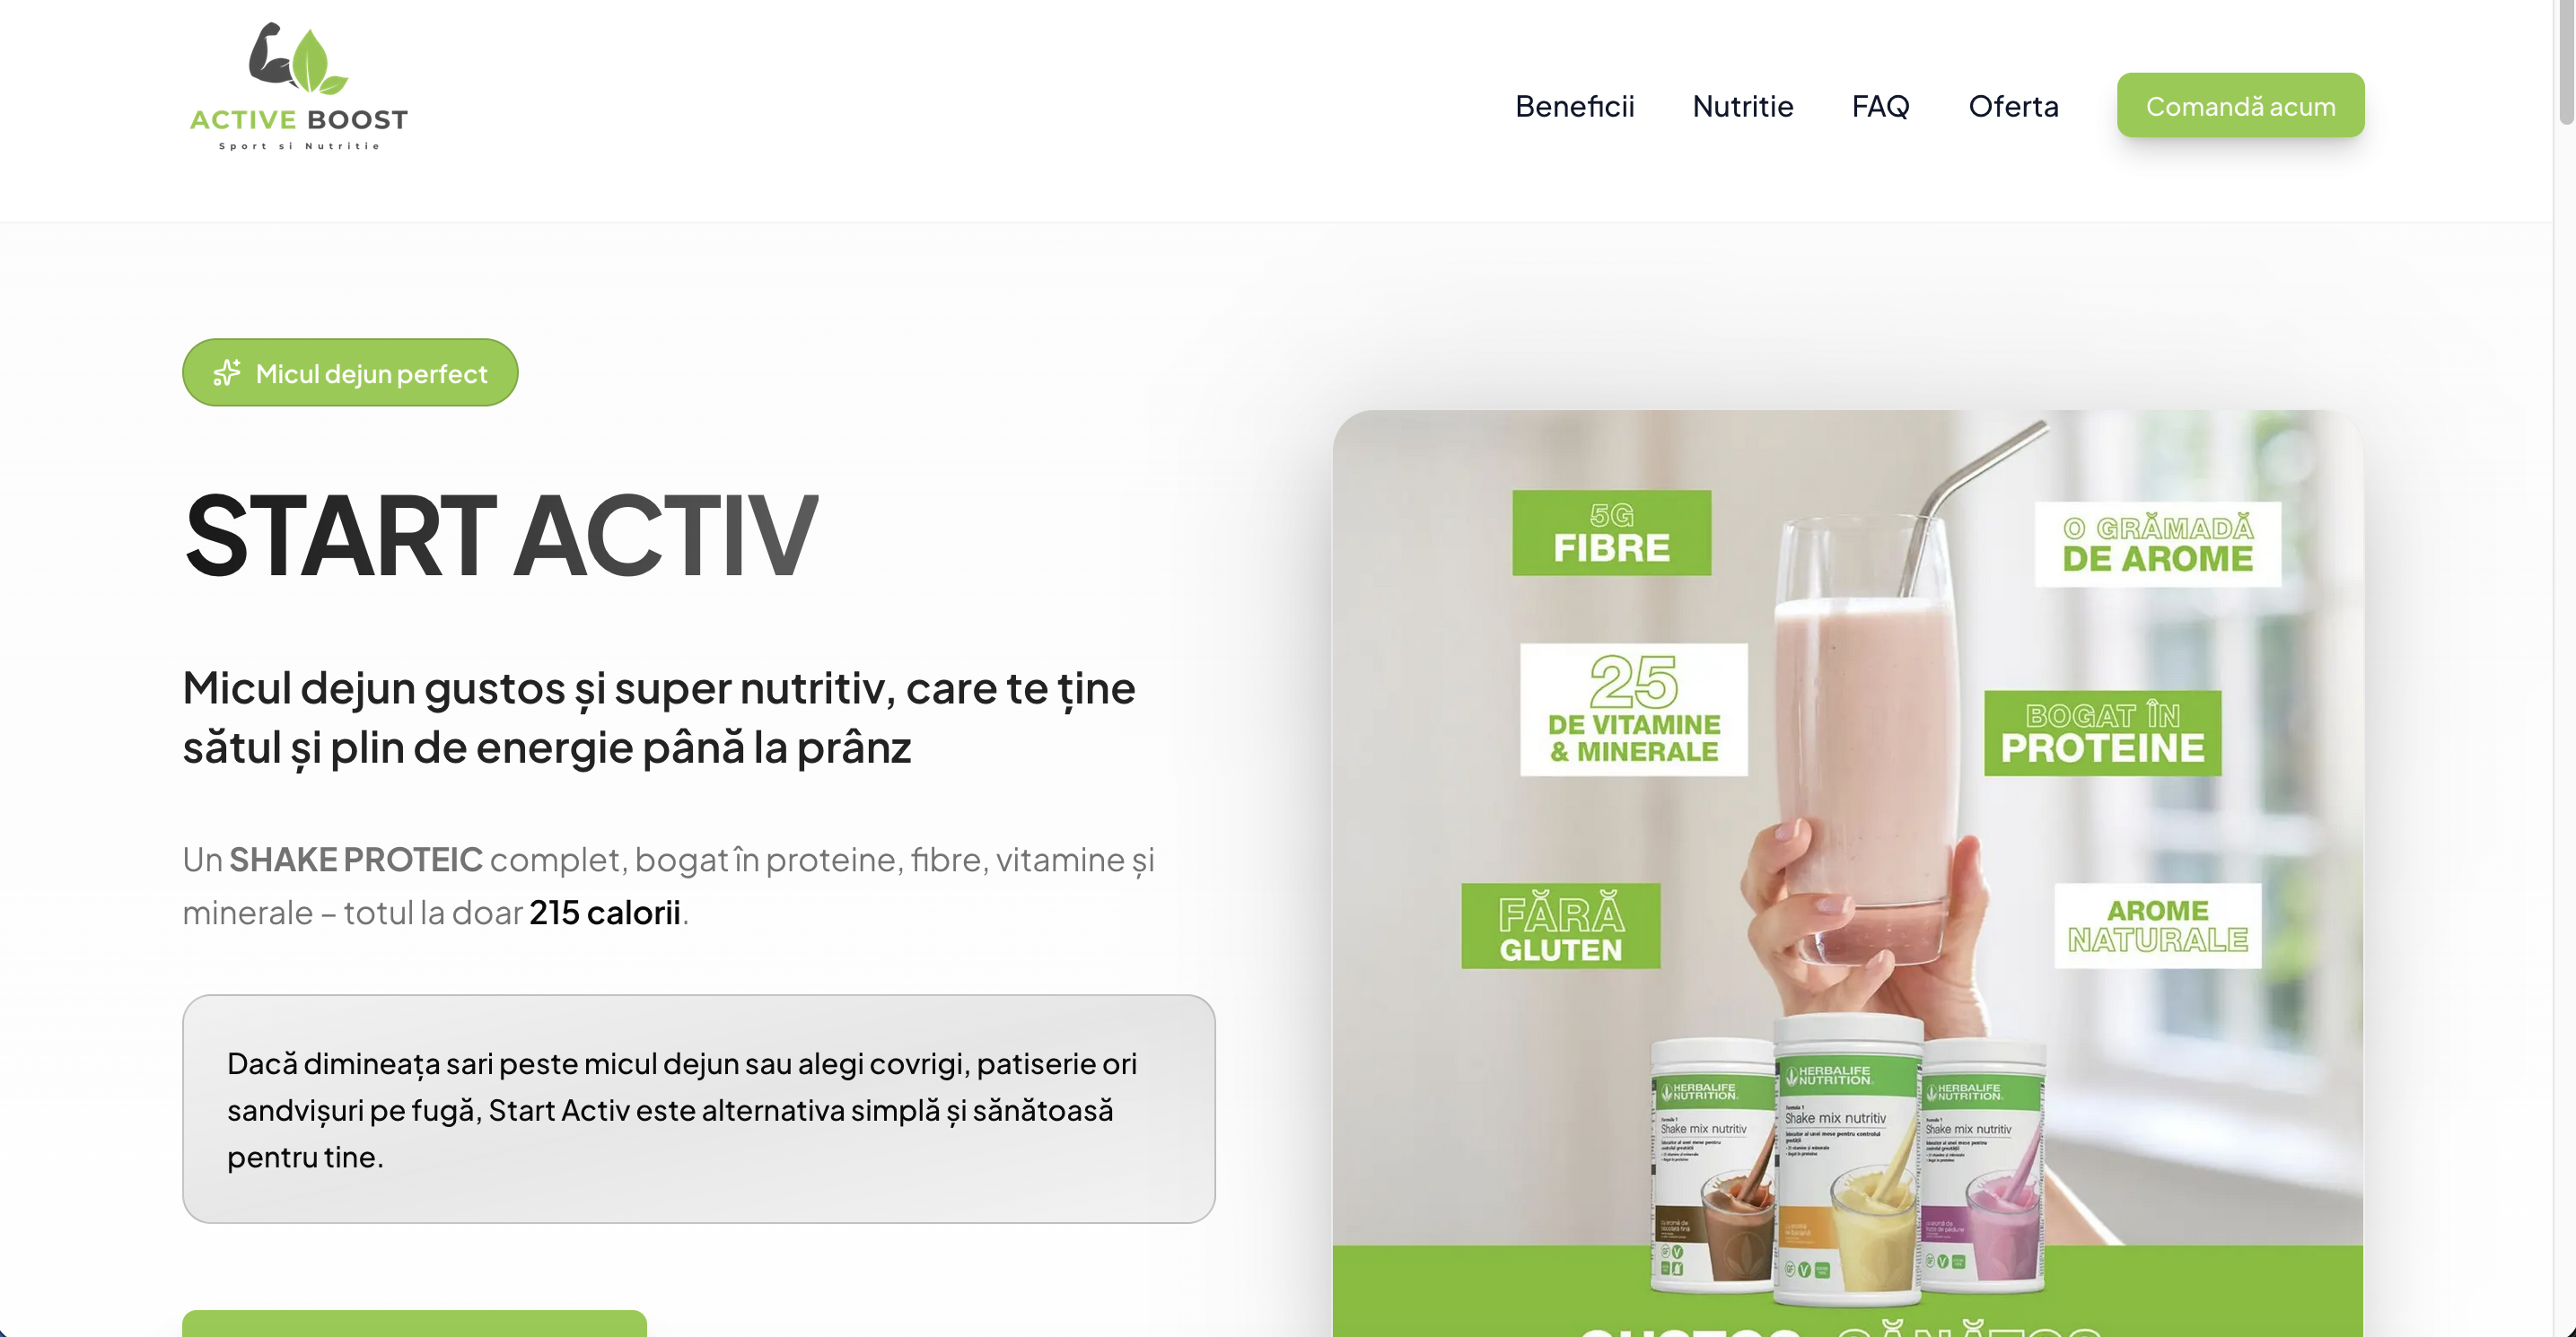
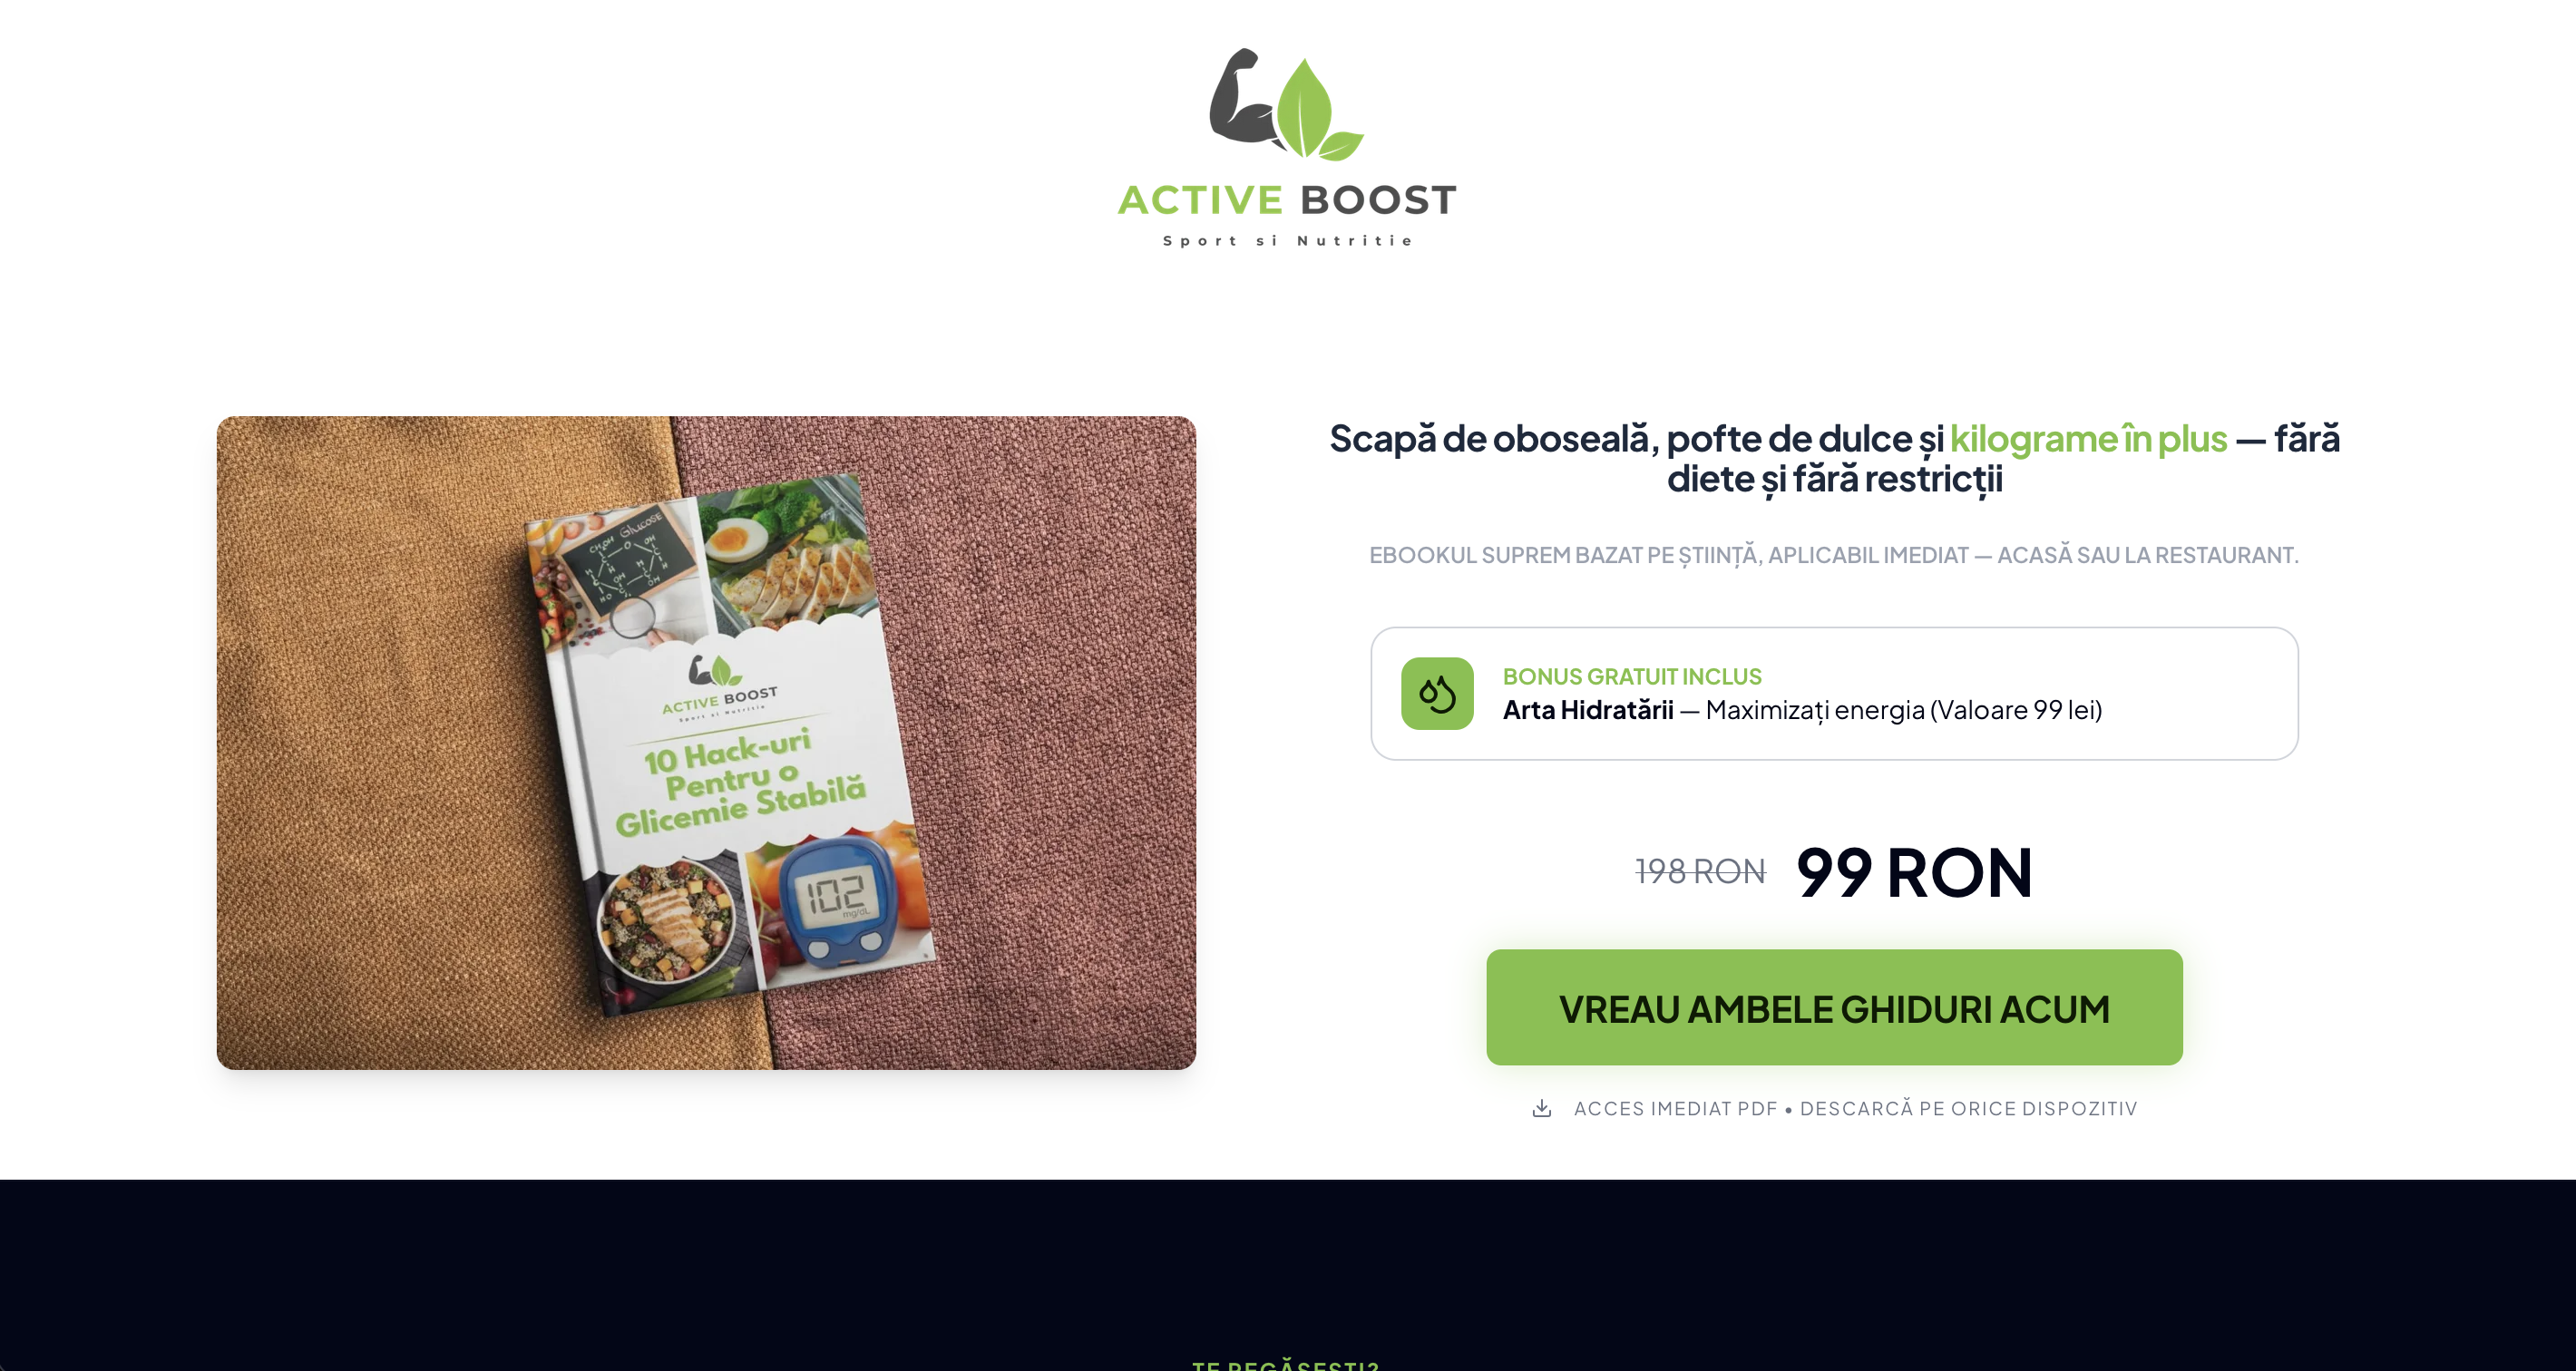
Added a demo indie Page

diff --git a/app/adrian/page.tsx b/app/adrian/page.tsx
@@ -1,0 +1,96 @@
+"use client";
+
+
+import { FaLinkedin, FaInstagram, FaFacebook} from "react-icons/fa6";
+import { Projects } from "@/components/landing/projects";
+import { motion } from "framer-motion";
+import ContactSection from "@/components/landing/contact";
+import Image from "next/image";
+import Link from "next/dist/client/link";
+
+export default function IndiePage() {
+    return (
+        <main className="bg-[#e6e6e6]">
+<div className="flex flex-col lg:flex-row gap-18 p-3 lg:p-16">
+      {/* Sidebar Profile - Fixed */}
+        <div className="flex flex-col items-center border-none lg:border lg:border-slate-700 rounded-lg p-7 w-full lg:w-120 lg:fixed lg:left-4 lg:top-16 lg:h-fit lg:z-30">
+            <img src="/foto.webp" alt="Profile Picture" className="w-58 h-58 rounded-full mb-4 border-3 border-slate-500" />
+            <h2 className="text-2xl font-bold mb-2">Adrian Toro</h2>
+           <div className="flex flex-col items-start gap-3">
+          
+ <p className="text-slate-900 text-lg text-center mx-auto italic ">Video Editor si Antreprenor</p>
+ <p className="text-slate-900 text-lg text-center">Sunt aici sa iti creez cele mai bune momente video din cariera ta</p>
+
+           </div>
+           
+
+            {/* Social Links - Bigger */}
+            <ul className="flex gap-6 mt-8">
+                <Link href="https://www.linkedin.com/in/catalin-toro-689181401/" target="_blank"><FaLinkedin className="w-8 h-8 cursor-pointer hover:text-cyan-400 transition-colors" /></Link>
+                <Link href="https://www.instagram.com/catalynn13" target="_blank"><FaInstagram className="w-8 h-8 cursor-pointer hover:text-cyan-400 transition-colors" /></Link>
+                <Link href="https://x.com/catalintorro" target="_blank"><FaFacebook className="w-8 h-8 cursor-pointer hover:text-cyan-400  transition-colors" /></Link>
+            </ul>
+                <ContactSection />
+        </div>
+       {/* Sidebar Profile */}
+
+      {/* Main Content Portofolio Indie Page */}
+          
+        <div className="lg:ml-124 "> 
+           <h1 className="text-xl text-center font-medium mb-10">Proiectele Mele</h1>
+            <div className="grid grid-cols-1 lg:grid-cols-2 gap-6">
+                {Projects.map((project, index) => (
+                    <motion.div
+                        key={index}
+                        initial={{ opacity: 0, y: 20 }}
+                        whileInView={{ opacity: 1, y: 0 }}
+                        transition={{ duration: 0.5 }}
+                        viewport={{ once: true }}
+                        whileHover={{ y: -5 }}
+                        className="group relative border border-cyan-500/20 rounded-xl p-4 bg-gradient-to-br from-slate-100 to-slate-200/50 backdrop-blur-sm hover:border-cyan-500/40 transition-all duration-300"
+                    >
+                        {/* Header with Icon and Title */}
+                        <div className="flex items-start justify-between mb-2">
+                            <div className="flex items-center gap-2 flex-1">
+                                <div className="p-2 rounded-lg text-slate-950">
+                                   <Image src={project.favicon || "/default-icon.png"} alt={`${project.title} Icon`} width={48} height={48} className="rounded" />
+                                </div>
+                                <div className="flex-1">
+                                    <h2 className="text-lg font-bold text-black  transition-colors">
+                                      Video
+                                    </h2>
+                                  
+                                </div>
+                            </div>
+                        </div>
+
+                        {/* Description */}
+                        <p className="text-slate-950 text-base mb-3 leading-relaxed">
+                            Video Description
+                        </p>
+
+                        <Image src={project.image} alt={`${project.title} Screenshot`} width={400} height={400} className="rounded-lg mb-3 object-cover" />
+
+                    
+
+                        
+                    </motion.div>
+                ))}
+
+               
+
+              
+            </div>
+        
+   
+        </div>
+          
+      {/* Main Content Portofolio Indie Page */}
+
+      
+      </div>
+
+
+        </main>
+    )
+}

diff --git a/app/layout.tsx b/app/layout.tsx
@@ -71,13 +71,12 @@ export default function RootLayout({
 
     <html lang="en" suppressHydrationWarning>
 
-      <body className={`${inter.className} ${Jakarta.variable} bg-gradient-to-b from-slate-950 via-slate-900 to-slate-950 text-white font-jakarta`}>
+      <body className={`${inter.className} ${Jakarta.variable}  font-jakarta`}>
 
         <main className="min-h-screen">{children}</main>
         <Toaster />
         <Analytics />
       </body>
-
     </html>
   );
 }